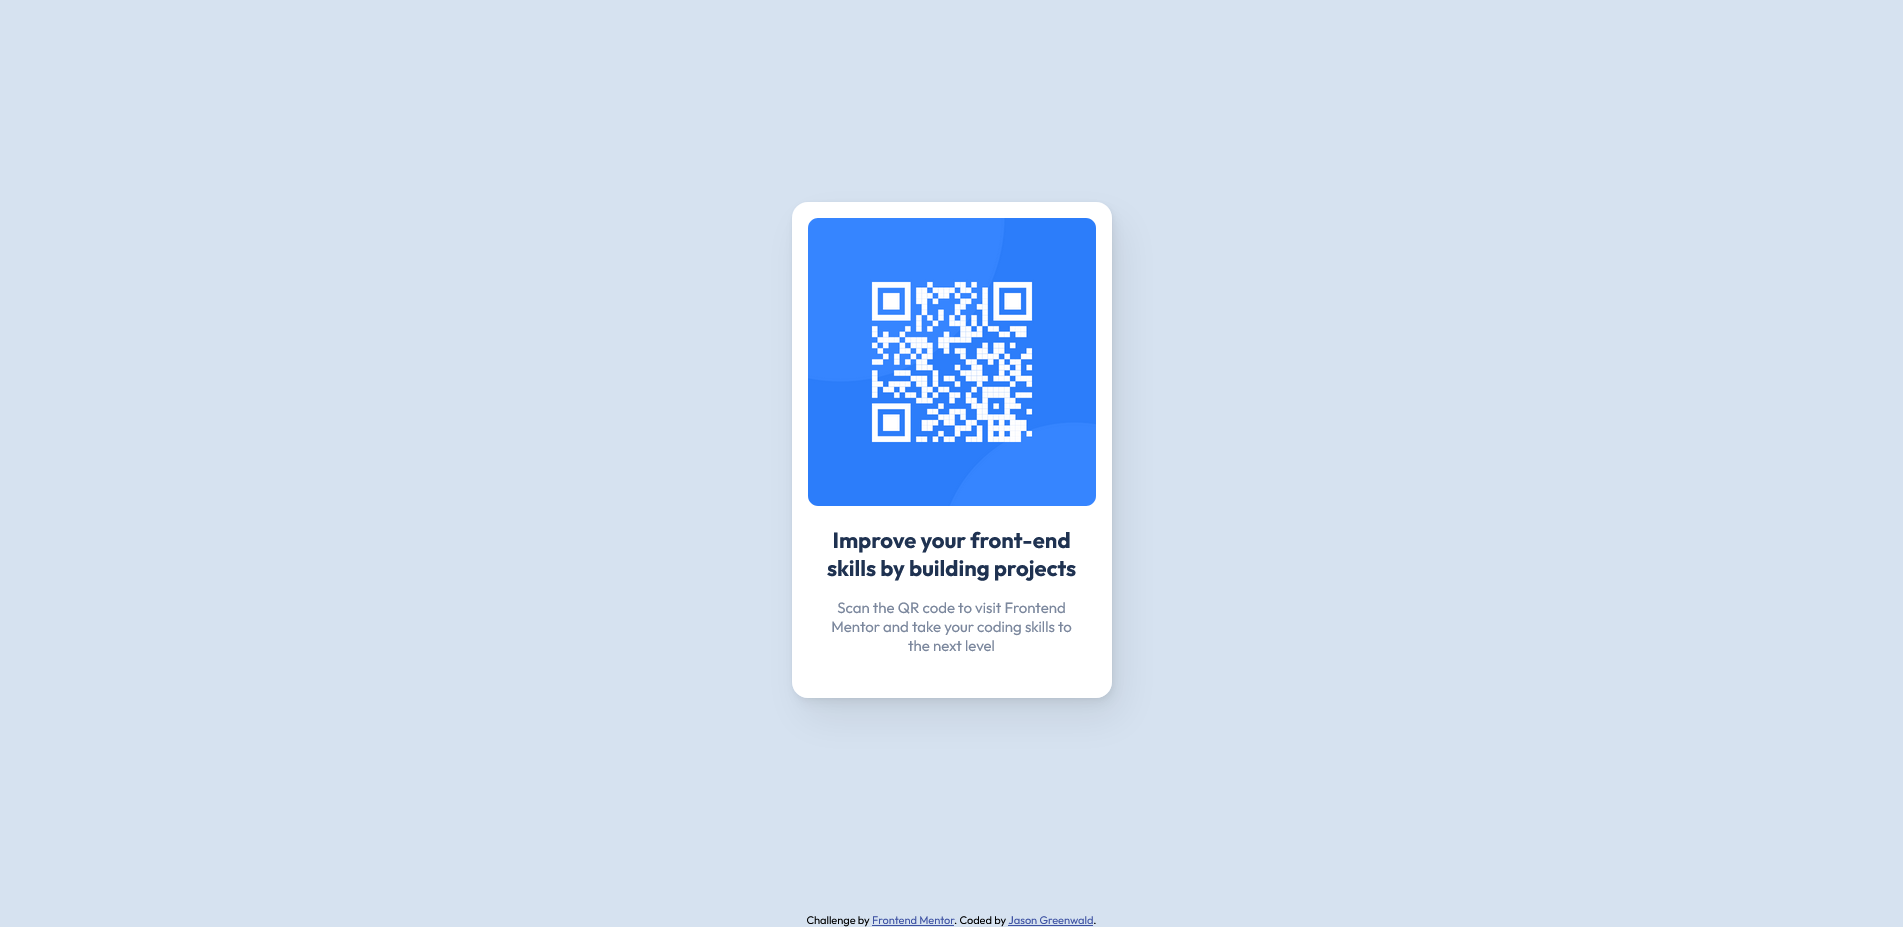
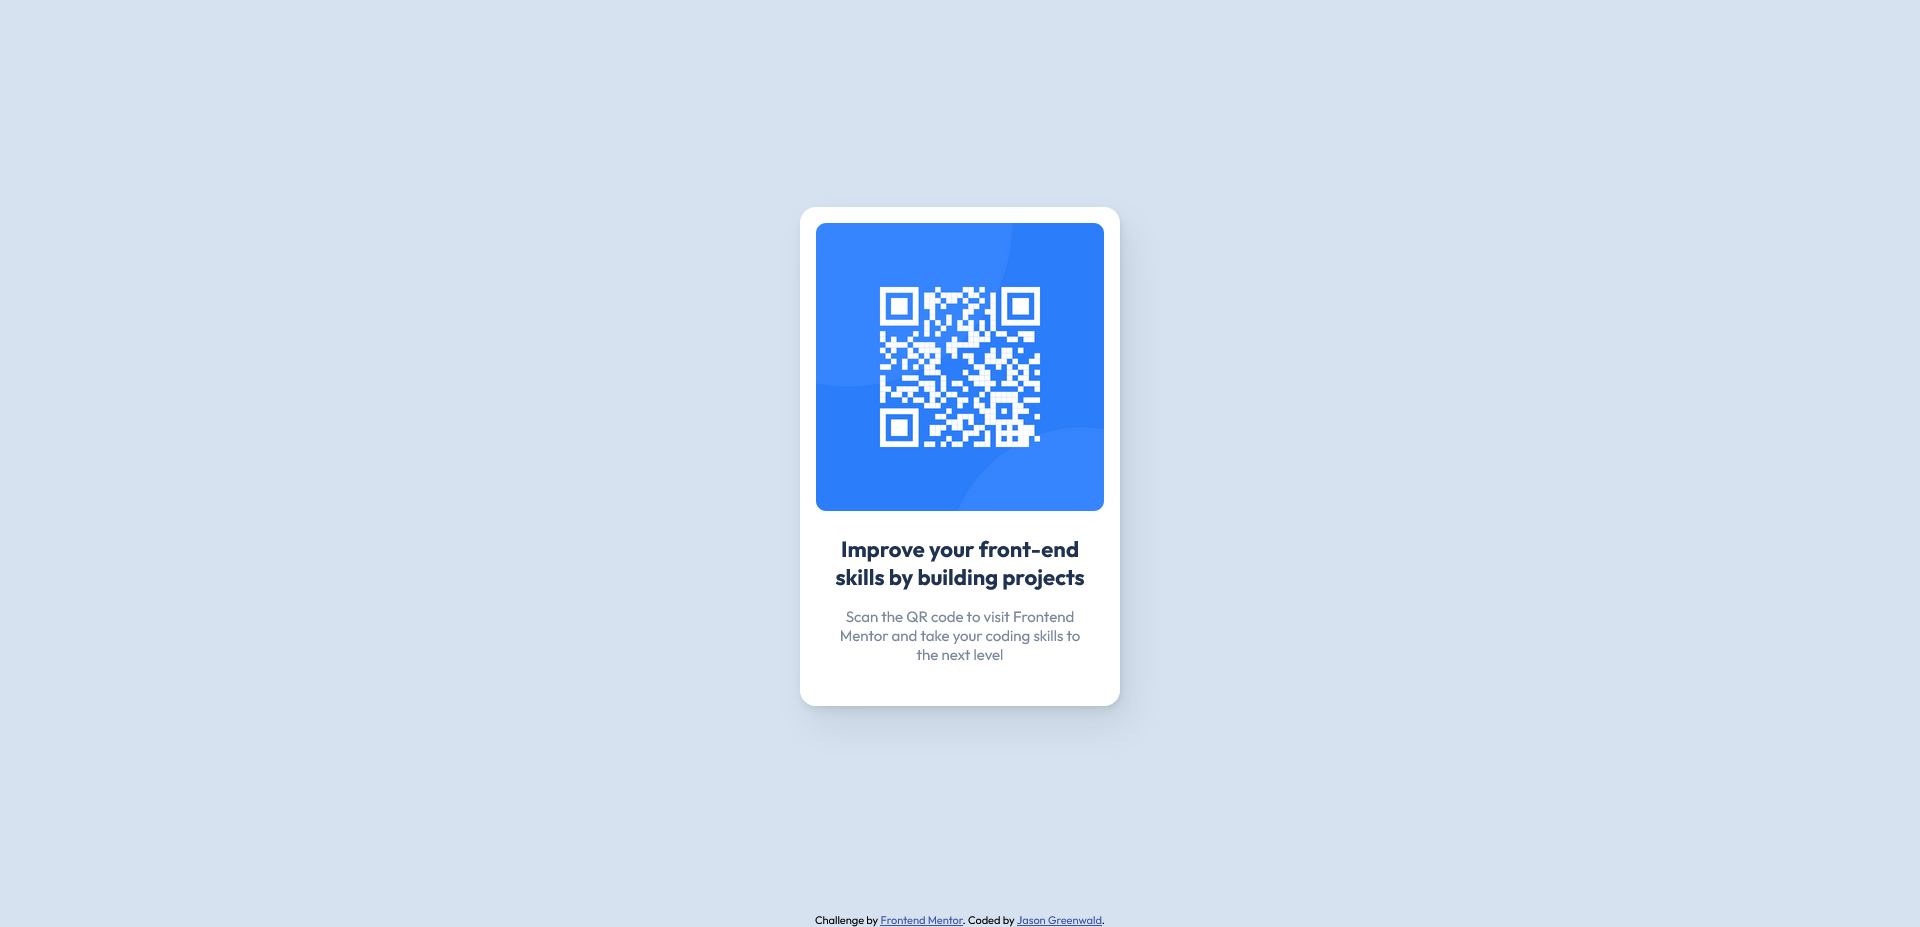
Tweak code for submission #2
See README for details.

diff --git a/index.html b/index.html
@@ -1,26 +1,26 @@
 <!DOCTYPE html>
 <html lang="en">
-<head>
-  <meta charset="UTF-8">
-  <meta name="viewport" content="width=device-width, initial-scale=1.0"> <!-- displays site properly based on user's device -->
-  <link rel="icon" type="image/png" sizes="32x32" href="./images/favicon-32x32.png">
-  <link rel="preconnect" href="https://fonts.googleapis.com">
-  <link rel="preconnect" href="https://fonts.gstatic.com" crossorigin>
-  <link href="https://fonts.googleapis.com/css2?family=Outfit:wght@100;300;400;700&display=swap" rel="stylesheet"> 
-  <link rel="stylesheet" href="style.css">
-  <title>Frontend Mentor | QR code component</title>
-</head>
-<body>
-  <div class="container">
-    <div class="qr-card">
-      <a href="https://www.frontendmentor.io/home"><img src="images/image-qr-code.png" alt="QR Code link to website Frontend Mentor"></a>
-      <h1>Improve your front-end skills by building projects</h1>
-      <p>Scan the QR code to visit Frontend Mentor and take your coding skills to the next level</p>
-    </div>
-  </div>
-  <div class="attribution">
-    Challenge by <a href="https://www.frontendmentor.io?ref=challenge" target="_blank">Frontend Mentor</a>. 
-    Coded by <a href="#">Jason Greenwald</a>.
-  </div>
-</body>
+  <head>
+    <meta charset="UTF-8">
+    <meta name="viewport" content="width=device-width, initial-scale=1.0"> <!-- displays site properly based on user's device -->
+    <link rel="icon" type="image/png" sizes="32x32" href="./images/favicon-32x32.png">
+    <link rel="preconnect" href="https://fonts.googleapis.com">
+    <link rel="preconnect" href="https://fonts.gstatic.com" crossorigin>
+    <link href="https://fonts.googleapis.com/css2?family=Outfit:wght@100;300;400;700&display=swap" rel="stylesheet"> 
+    <link rel="stylesheet" href="style.css">
+    <title>Frontend Mentor | QR code component</title>
+  </head>
+  <body>
+    <main>
+      <div class="qr-card">
+        <a href="https://www.frontendmentor.io/home"><img src="images/image-qr-code.png" alt="QR Code link to website Frontend Mentor"></a>
+        <h1>Improve your front-end skills by building projects</h1>
+        <p>Scan the QR code to visit Frontend Mentor and take your coding skills to the next level</p>
+      </div>
+    </main>
+    <footer>
+      Challenge by <a href="https://www.frontendmentor.io?ref=challenge" target="_blank">Frontend Mentor</a>. 
+      Coded by <a href="#">Jason Greenwald</a>.
+    </footer>
+  </body>
 </html>

diff --git a/style.css b/style.css
@@ -12,18 +12,21 @@ body {
     margin: 0px;
     padding: 0px;
     background-color: hsl(212, 45%, 89%);
+    display: flex;
+    flex-direction: column;
+    position: absolute;
+    top: 0;
+    bottom: 0;
+    right: 0;
+    left: 0;
 }
 
-.container { 
-    display: flex;
-    align-items: center;
-    width: 100%;
-    height: 100vh;
+main { 
+    margin: auto;
 } 
 
 .qr-card {
     width: 320px;
-    height: 496px;
     margin: auto;
     padding: 16px;
     background-color: hsl(0, 0%, 100%);
@@ -42,24 +45,24 @@ img {
 }
 
 h1 {
-    margin: 16px 12px;
+    margin: 20px 12px 16px 12px;
     font-size: 22px;
     font-weight: 700;
     color: hsl(218, 44%, 22%);
 }
 
 p {
-    margin: 0 20px 22px 20px;
+    margin: 0 20px 26px 20px;
     font-size: 15px;
     font-weight: 400;
     color: hsl(220, 15%, 55%);
 }
 
-.attribution {
+footer {
     font-size: 11px;
     text-align: center;
 }
 
-.attribution > a {
+footer > a {
     color: hsl(228, 45%, 44%);
 }

diff --git a/README.md b/README.md
@@ -17,7 +17,11 @@ This is a solution to the [QR code component challenge on Frontend Mentor](https
 
 ## Overview
 
-TBD
+This is an updated submission based on the feedback I received from user @kjdeepak. Changes:
+  - Removed references to height
+  - Used suggested centering technique to remove scrolling
+  - Tweaked space between h1 and p elements.
+  - Replaced the wrapper div with the <main> tag for more semantic HTML.
 
 ### Screenshot
 
@@ -30,6 +34,10 @@ TBD
 - Repository Site URL: https://github.com/jaycgreenwald/qr-code-component-fm
 
 ## My process
+
+I jumped in and started coding, but quickly was bogged down trying to tweak spacing.
+
+Read Chasing the Pixel-Perfect Dream, took a step back, measured everything in Illustrator, started CSS fresh, and ended with the code to position the component.
 
 ### Built with
 
@@ -50,6 +58,8 @@ I discovered the Responsive Design Mode in the Firefox Developer Tools.
 
 I learned how to commit changes to my repo and how to publish said repo using GitHub Pages. It was a great feeling seeing my code live on a webpage!
 
+Additionaly, I've learned a new technique to center (horizontal and vertical) a div.
+
 ### Continued development
 
 I would like to focus on responsive design techniques to get on more solid footing. Did I code a project that is responsive? I'm still not sure. The other area I need to work on is learning about accessibility. I don't know if my solution is accessible or how to make that determination. I'll also seek feedback which may provide additional areas of focus.
@@ -68,3 +78,5 @@ I would like to focus on responsive design techniques to get on more solid footi
 ## Acknowledgments
 
 Thank you to Frontend Mentor for providing this amazing resource and to the people who created the resources listed above.
+
+Thank you to user @kjdeepak who answered all three of my questions!
